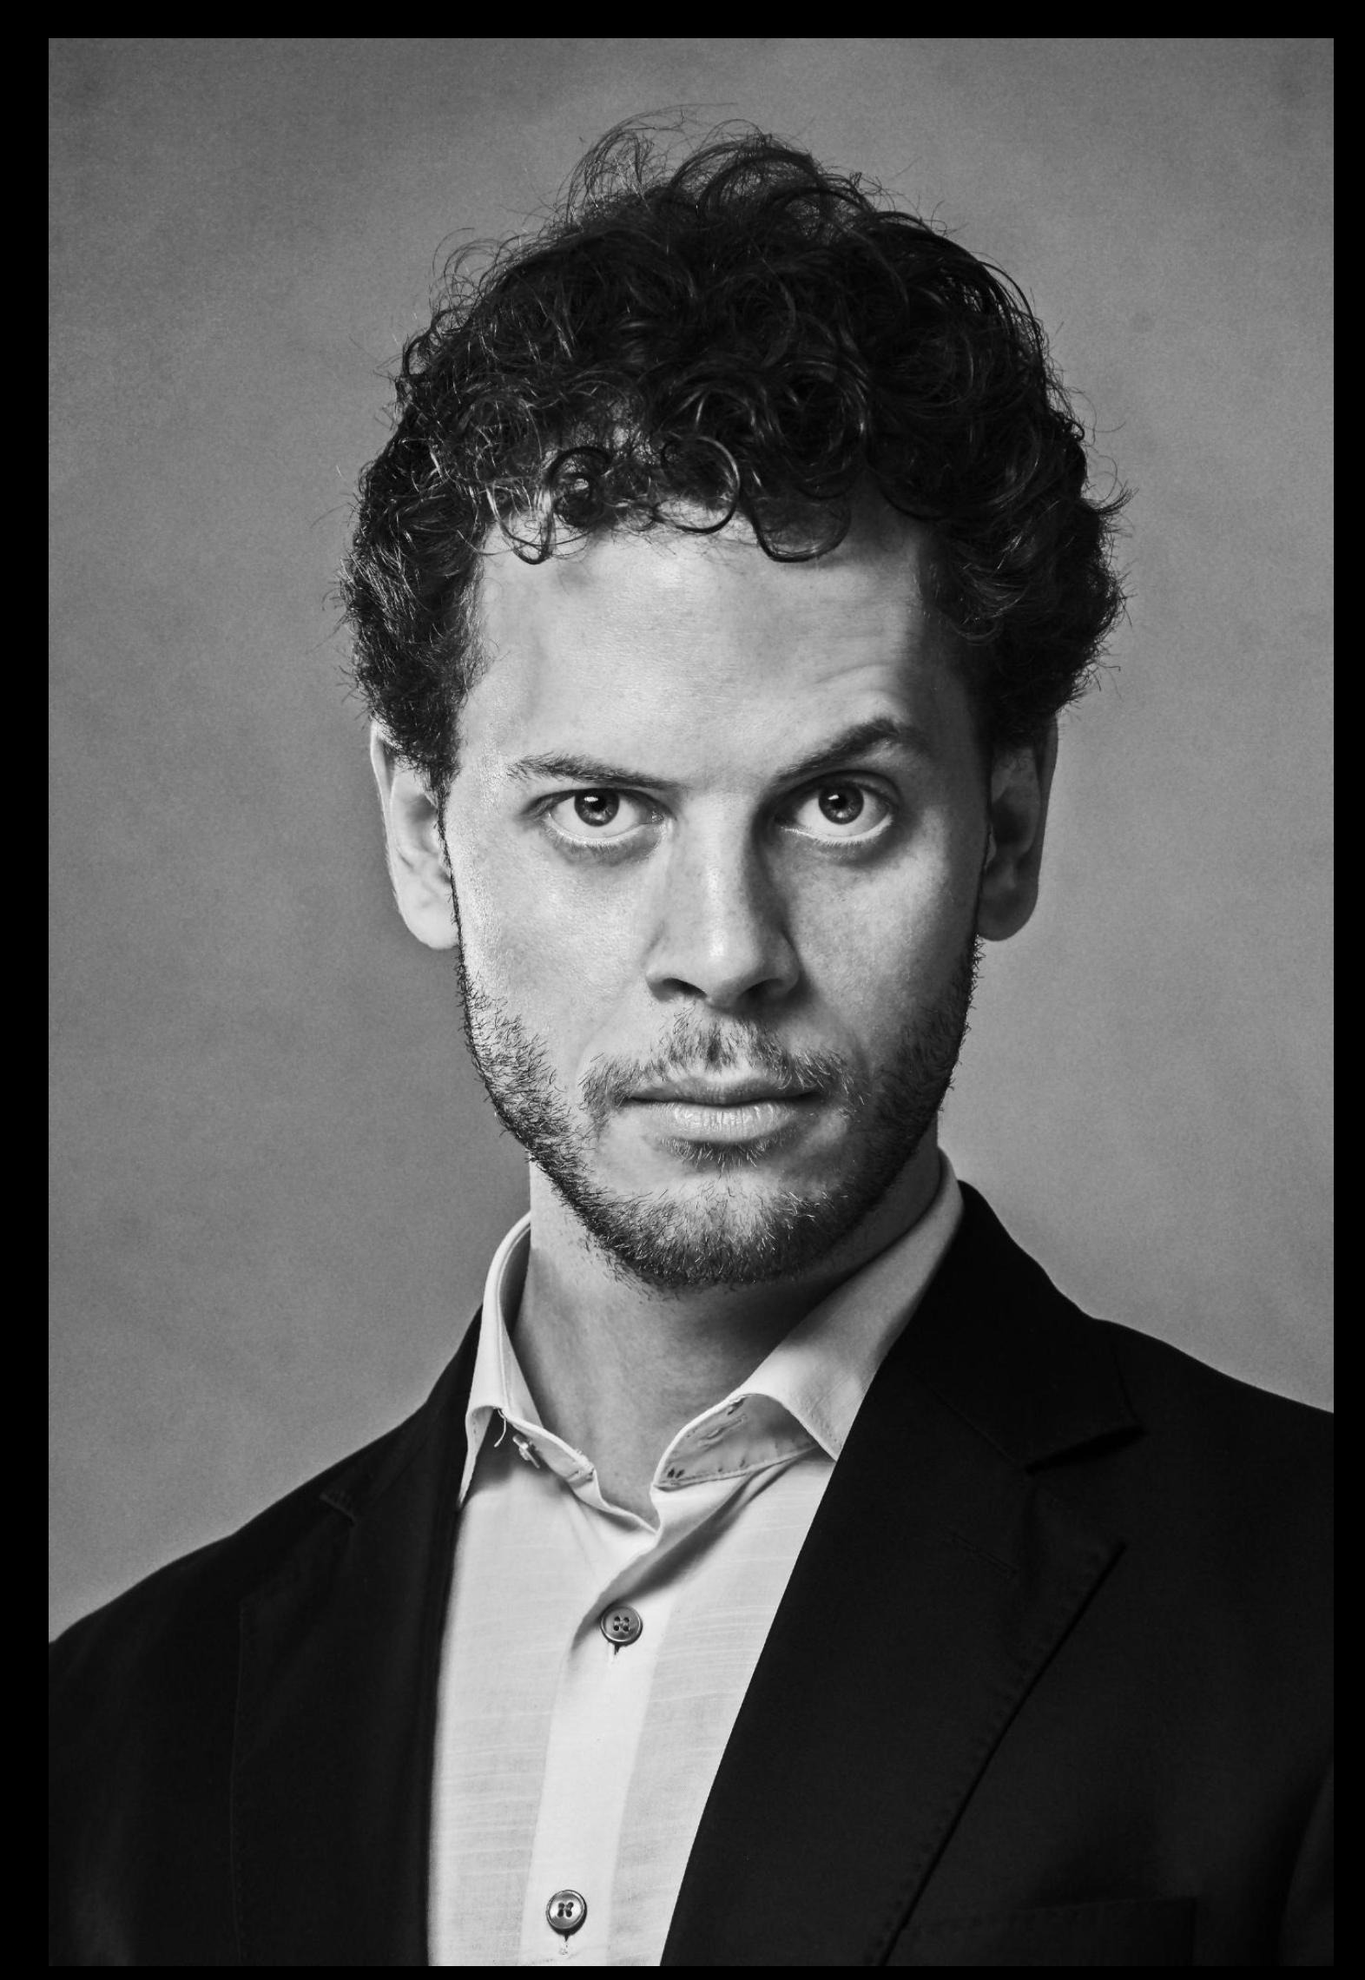
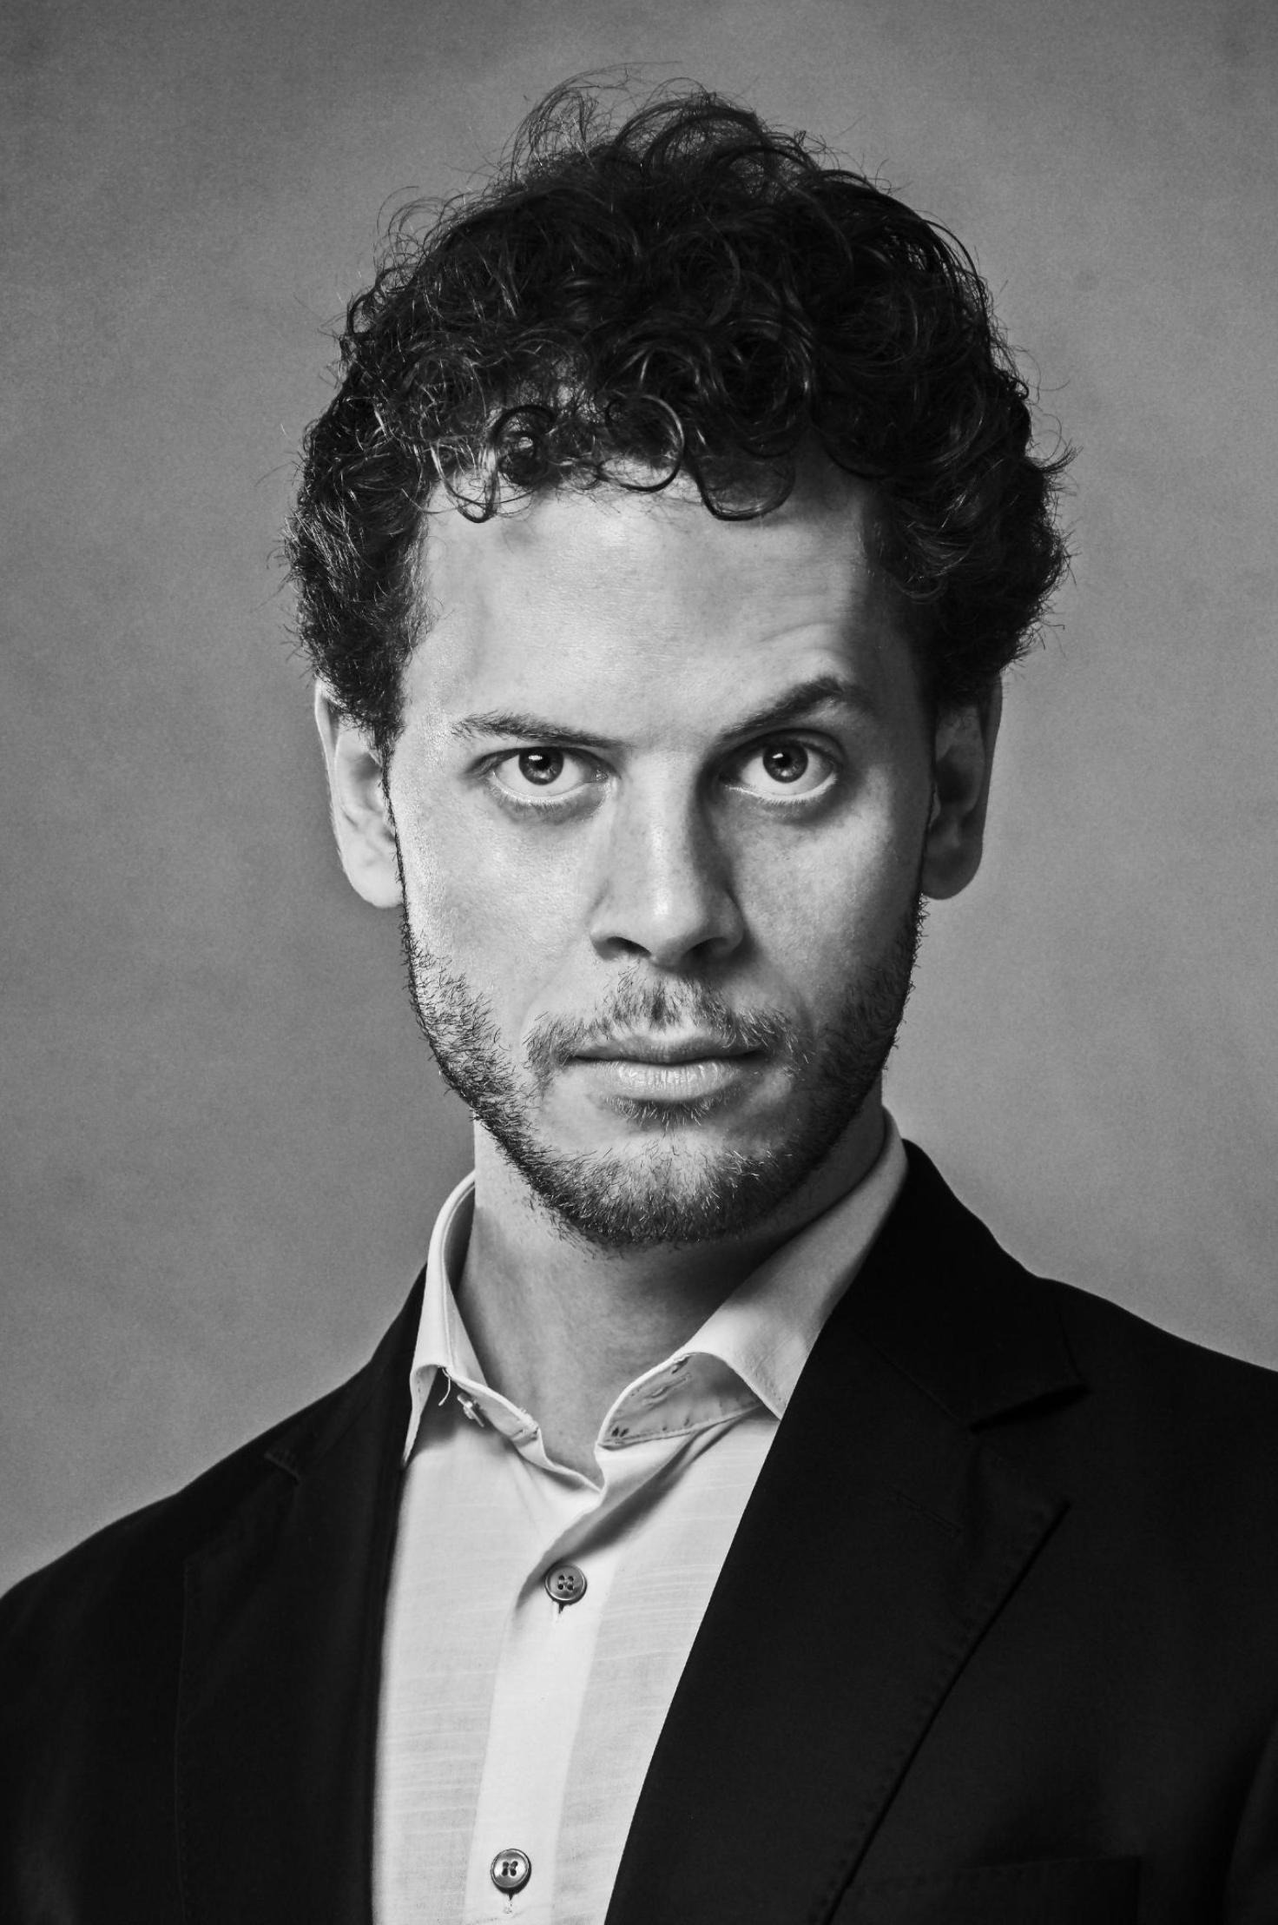
Team page: publish the current roster from momentum-public-site develop a77b971

diff --git a/team.html b/team.html
@@ -10,13 +10,13 @@
     <link rel="apple-touch-icon" href="/apple-touch-icon.svg">
 
     <!-- SEO -->
-    <meta name="description" content="The team building the AI-native operating system for organizations, live across 13+ jurisdictions. Stripe founding team. MIT. Perimeter Institute. Oracle. Stability AI. Operating from Abu Dhabi, Miami, Shanghai, and Cape Town.">
+    <meta name="description" content="The team building the AI-native operating system for organizations, with deployments in the United States, Honduras, Hong Kong, Singapore, and ADGM. Stripe founding team. MIT. Perimeter Institute. Stability AI. Operating from Abu Dhabi, Miami, Shanghai, and Cape Town.">
     <meta name="author" content="Momentum">
     <link rel="canonical" href="https://momentum.inc/team.html">
 
     <!-- Open Graph -->
     <meta property="og:title" content="Team — Momentum">
-    <meta property="og:description" content="The team building the AI-native operating system for organizations, live across 13+ jurisdictions. Stripe founding team. MIT. Perimeter Institute. Operating across four continents.">
+    <meta property="og:description" content="The team building the AI-native operating system for organizations, with deployments in the United States, Honduras, Hong Kong, Singapore, and ADGM. Stripe founding team. MIT. Perimeter Institute. Operating across four continents.">
     <meta property="og:type" content="website">
     <meta property="og:url" content="https://momentum.inc/team.html">
     <meta property="og:image" content="https://momentum.inc/og-image.png">
@@ -24,7 +24,7 @@
     <!-- Twitter -->
     <meta name="twitter:card" content="summary_large_image">
     <meta name="twitter:title" content="Team — Momentum">
-    <meta name="twitter:description" content="The team building the AI-native operating system for organizations, live across 13+ jurisdictions. Stripe founding team. MIT. Perimeter Institute.">
+    <meta name="twitter:description" content="The team building the AI-native operating system for organizations, with deployments in the United States, Honduras, Hong Kong, Singapore, and ADGM. Stripe founding team. MIT. Perimeter Institute.">
     <meta name="twitter:image" content="https://momentum.inc/og-image.png">
 
     <!-- Google Analytics -->
@@ -120,31 +120,88 @@
                         <div class="team-card">
                             <div class="team-portrait" data-initials="RL"><img src="/team/raeez-lorgat.jpeg" alt="Raeez Lorgat" width="896" height="1088" loading="lazy"></div>
                             <h2 class="team-card-name">Raeez Lorgat</h2>
-                            <p class="team-card-role">Founder &amp; Managing Partner</p>
-                            <p class="team-card-bio">Programming since eleven. NASA grand award at sixteen; <a href="https://www.spacereference.org/asteroid/23122-lorgat-2000-au52">Minor Planet 23122 Lorgat</a> named in his honour. MIT, then joined Patrick and John Collison on the founding team at Stripe. A decade at MIT and the Perimeter Institute studying arithmetic geometry, factorization algebras, and the geometry of quantum field theory.</p>
+                            <p class="team-card-role">Chief Executive Officer, Managing Partner, Founder</p>
+                            <p class="team-card-bio">Allocates capital, sets network strategy, leads government relationships, and approves investment and operating decisions. He dropped out of the Massachusetts Institute of Technology (MIT) in 2010 and co-founded Stripe. He returned to pure mathematics in 2013 and taught at MIT and the Perimeter Institute for Theoretical Physics, where he is a Research Fellow. That work became Mass.</p>
                         </div>
 
-                        <!-- <div class="team-card">
-                            <div class="team-portrait" data-initials="BA"><img src="/team/bharathwaj-anand.jpg" alt="Bharathwaj Anand" width="906" height="906" loading="lazy"></div>
-                            <h2 class="team-card-name">Bharathwaj Anand</h2>
-                            <p class="team-card-role">Institutional &amp; Frontier Markets</p>
-                            <p class="team-card-geo">India &middot; Middle East &middot; North America</p>
-                            <p class="team-card-bio">Founded Oracle&rsquo;s Shared Services Technology practice. Built global banking infrastructure for BNY Mellon and State Street. As VP of Commercialization, secured $50M+ ARR across Canadian provincial and federal government mandates. Leads strategic expansion into the Indian subcontinent and the Broad Group manufacturing joint venture in Abu Dhabi.</p>
-                        </div> -->
+                        <div class="team-card">
+                            <div class="team-portrait" data-initials="TL"><img src="/team/tariq-lorgat.jpg" alt="Tariq Lorgat" width="640" height="640" loading="lazy"></div>
+                            <h2 class="team-card-name">Tariq Lorgat</h2>
+                            <p class="team-card-role">Chief Technology Officer, Partner, Founder</p>
+                            <p class="team-card-bio">Leads Mass technology, information security, integration, and technical acceptance. He is Raeez Lorgat&rsquo;s brother and has built the company with him from the start.</p>
+                        </div>
 
                         <div class="team-card">
-                            <div class="team-portrait" data-initials="ST"><img src="/team/scott-trowbridge-highres.jpg" alt="Scott Trowbridge" width="626" height="644" loading="lazy"></div>
-                            <h2 class="team-card-name">Scott Trowbridge</h2>
-                            <p class="team-card-role">Incubation &amp; Community Building</p>
-                            <p class="team-card-geo">UAE</p>
-                            <p class="team-card-bio">Founding team and first investor at Stability AI ($240M+ raised, $1B valuation). Led Circle EMEA, launching regulated digital dollar and euro rails across the region. Built WeWork&rsquo;s Fintech and Digital Assets Incubator.</p>
+                            <div class="team-portrait" data-initials="TC"><img src="/team/taalia-crawley.jpg" alt="Taalia Crawley" width="640" height="640" loading="lazy"></div>
+                            <h2 class="team-card-name">Taalia Crawley</h2>
+                            <p class="team-card-role">Chief Compliance Officer</p>
+                            <p class="team-card-bio">Leads group compliance, including onboarding, monitoring, reporting, and regulator engagement. She is a chartered accountant, certified by the South African Institute of Chartered Accountants. She is the group&rsquo;s Money Laundering Reporting Officer.</p>
+                        </div>
+
+                        <div class="team-card">
+                            <div class="team-portrait" data-initials="JB"><img src="/team/jan-bunge.png" alt="Jan Bunge" width="1440" height="1440" loading="lazy"></div>
+                            <h2 class="team-card-name">Jan Bunge</h2>
+                            <p class="team-card-role">Chief Architect, Planning &amp; Logistics Officer</p>
+                            <p class="team-card-bio">Leads architecture, physical planning, and logistics for zones, cities, and infrastructure. He has two decades in architecture and urban design, including as a partner at Squint/Opera, where he developed Spaceform. He trained at TU Berlin and IAAC Barcelona.</p>
+                        </div>
+
+                        <div class="team-card">
+                            <div class="team-portrait" data-initials="SS"><img src="/team/sunghoon-suh.png" alt="Sunghoon Suh" width="1440" height="1440" loading="lazy"></div>
+                            <h2 class="team-card-name">Sunghoon Suh</h2>
+                            <p class="team-card-role">Operating Partner</p>
+                            <p class="team-card-bio">Leads business development and cross-border programmes across Korea, Japan, and Indonesia. He holds a master&rsquo;s in information management from the Korea Advanced Institute of Science and Technology, built mobile-banking cybersecurity joint ventures across three countries, and worked on the Jakarta mass rapid transit signalling programme.</p>
+                        </div>
+
+                        <div class="team-card">
+                            <div class="team-portrait" data-initials="MS"></div>
+                            <h2 class="team-card-name">Michael Sung</h2>
+                            <p class="team-card-role">Operating Partner</p>
+                            <p class="team-card-bio">Develops institutional, trade, zone, and licensed-service relationships across China, the United Arab Emirates, Pakistan, Hong Kong, and the Seychelles. He is a founding co-director of the Fudan Fanhai Fintech Research Center, a principal of CarbonBlue Innovations in Hong Kong, and a member of the World Digital Economy Council&rsquo;s central bank digital currency committee.</p>
+                        </div>
+
+                        <div class="team-card">
+                            <div class="team-portrait" data-initials="LW"><img src="/team/lilith-wang.jpeg" alt="Lilith Wang" width="1200" height="1600" loading="lazy"></div>
+                            <h2 class="team-card-name">Lilith Wang</h2>
+                            <p class="team-card-role">Operating Partner</p>
+                            <p class="team-card-geo">Kazakhstan &middot; China &middot; UAE</p>
+                            <p class="team-card-bio">Established federally supported incubators with the University of Toronto. Led Momentum&rsquo;s Kazakhstan economic zone initiative. Now leading the Broad Group joint venture for prefabricated manufacturing in Abu Dhabi and facilitating North American market entry into the UAE.</p>
+                        </div>
+
+                        
+
+                        <div class="team-card">
+                            <div class="team-portrait" data-initials="HM"></div>
+                            <h2 class="team-card-name">Hugo Mathecowitsch</h2>
+                            <p class="team-card-role">Operating Partner</p>
+                            <p class="team-card-bio">Leads zone origination across Africa and Latin America. He is the founder and chief executive of Tools for the Commons, Momentum&rsquo;s Africa and Latin America zone partner, which establishes companies in digital economic zones.</p>
+                        </div>
+
+                        <div class="team-card">
+                            <div class="team-portrait" data-initials="HS"></div>
+                            <h2 class="team-card-name">Haroun Bilal Sharif</h2>
+                            <p class="team-card-role">Operating Partner</p>
+                            <p class="team-card-bio">Leads Momentum&rsquo;s Pakistan programme. He is a Pakistani lawyer with international-arbitration and frontier-market experience.</p>
+                        </div>
+
+                        <div class="team-card">
+                            <div class="team-portrait" data-initials="CS"></div>
+                            <h2 class="team-card-name">Charles Slamowitz</h2>
+                            <p class="team-card-role">Operating Partner, Law</p>
+                            <p class="team-card-bio">He is the founder and managing partner of Slam Legal in New York, a firm for artificial intelligence, digital assets, and cross-border technology disputes. He trained at Emory University School of Law.</p>
+                        </div>
+
+                        <div class="team-card">
+                            <div class="team-portrait" data-initials="FJ"></div>
+                            <h2 class="team-card-name">Fahad Juneja</h2>
+                            <p class="team-card-role">Operating Partner, Law</p>
+                            <p class="team-card-bio">He practiced at Sidley Austin in Dallas and Century City, and was in-house counsel at Paramount Pictures. He trained at Southern Methodist University (Order of the Coif) and George Washington University.</p>
                         </div>
 
                         <div class="team-card">
                             <div class="team-portrait" data-initials="JJ"><img src="/team/jogabrata-jena.png" alt="Jogabrata Jena" width="1456" height="1440" loading="lazy"></div>
                             <h2 class="team-card-name">Jogabrata Jena</h2>
-                            <p class="team-card-role">Product &amp; Brand Design</p>
-                            <p class="team-card-bio">Product and brand designer building cohesive, scalable digital experiences across fintech and emerging technology. Visual identity and UX for Mass and Momentum. Design systems for Zee, Unmarshal, Tayze, Slice Bank.</p>
+                            <p class="team-card-role">Product and Brand Designer</p>
+                            <p class="team-card-bio">Builds product experience, brand systems, and visual design for Momentum and Mass. He previously built the design systems for Zee, Unmarshal, Tayze, and Slice Bank.</p>
                             <div class="team-icon-row">
                                 <a href="https://www.linkedin.com/in/jogabrata-jena-122227189/" aria-label="Jogabrata Jena on LinkedIn" class="team-icon-link"><svg width="14" height="14" viewBox="0 0 14 14" fill="currentColor"><rect x="1" y="1" width="2.5" height="2.5"/><rect x="1" y="5.5" width="2.5" height="7.5"/><rect x="5.5" y="5.5" width="2.5" height="7.5"/><rect x="5.5" y="5.5" width="7" height="2"/><rect x="10" y="7.5" width="2.5" height="5.5"/></svg></a>
                             </div>
@@ -153,15 +210,45 @@
                         <div class="team-card">
                             <div class="team-portrait" data-initials="DC"><img src="/team/david-cash.jpg" alt="David Cash" width="1576" height="2048" loading="lazy"></div>
                             <h2 class="team-card-name">David Cash</h2>
-                            <p class="team-card-role">Marketing &amp; Communications</p>
-                            <p class="team-card-bio">Founded Cash Labs (300+ campaigns: Amazon, Est&eacute;e Lauder, Verizon, NBA). $100M+ in digital asset sales. Profiled by Vogue for digital commerce market work.</p>
+                            <p class="team-card-role">Communications</p>
+                            <p class="team-card-bio">Leads messaging, media relationships, market positioning, and communications production. He founded Cash Labs, which has run more than three hundred campaigns for companies including Amazon, Est&eacute;e Lauder, Verizon, and the NBA. He has curated Metaverse Fashion Week since its first edition.</p>
                         </div>
 
                         <div class="team-card">
-                            <div class="team-portrait" data-initials="JB"><img src="/team/jan-bunge.png" alt="Jan Bunge" width="1440" height="1440" loading="lazy"></div>
-                            <h2 class="team-card-name">Jan Bunge</h2>
-                            <p class="team-card-role">Architect</p>
-                            <p class="team-card-bio">Two decades in architecture and urban design. Partner at Squint/Opera; developed Spaceform. TU Berlin, IAAC Barcelona.</p>
+                            <div class="team-portrait" data-initials="AN"></div>
+                            <h2 class="team-card-name">Ali Al Nuaimi</h2>
+                            <p class="team-card-role">Advisor, Sovereign and Institutional</p>
+                            <p class="team-card-bio">Advises on government, energy, banking, and applied-artificial-intelligence programmes in the United Arab Emirates. He is a nuclear scientist and applied-artificial-intelligence engineer there.</p>
+                        </div>
+
+                        <div class="team-card">
+                            <div class="team-portrait" data-initials="OG"></div>
+                            <h2 class="team-card-name">Omar Essa Al Ghurair</h2>
+                            <p class="team-card-role">Advisor, Institutional and Energy</p>
+                            <p class="team-card-bio">Advises on institutional and energy relationships.</p>
+                        </div>
+
+                        <div class="team-card">
+                            <div class="team-portrait" data-initials="ST"><img src="/team/scott-trowbridge-highres.jpg" alt="Scott Trowbridge" width="626" height="644" loading="lazy"></div>
+                            <h2 class="team-card-name">Scott Trowbridge</h2>
+                            <p class="team-card-role">Advisor, Venture and Digital Currency</p>
+                            <p class="team-card-geo">UAE</p>
+                            <p class="team-card-bio">Advises on venture incubation, founder communities, and United Arab Emirates relationships. He was a founding team member, the first investor, and a board member at Stability AI, and led Circle&rsquo;s Europe, Middle East and Africa business through the launch of the USDC and EURC stablecoins. He built WeWork&rsquo;s fintech and blockchain incubator and founded Symbiotic Labs.</p>
+                        </div>
+
+                        <div class="team-card">
+                            <div class="team-portrait" data-initials="MC"></div>
+                            <h2 class="team-card-name">Michael Chan</h2>
+                            <p class="team-card-role">Advisor, South East Asia</p>
+                            <p class="team-card-bio">Advises Momentum on South East Asia.</p>
+                        </div>
+
+                        <div class="team-card">
+                            <div class="team-portrait" data-initials="MV"><img src="/team/miklos-veszpremi.jpg" alt="Miklós Veszprémi, PhD" width="1472" height="2216" loading="lazy"></div>
+                            <h2 class="team-card-name">Miklós Veszprémi, PhD</h2>
+                            <p class="team-card-role">Advisor &amp; Operator, Private Markets</p>
+                            <p class="team-card-geo">UAE &middot; Europe</p>
+                            <p class="team-card-bio">BCG Expert Consultant advising sovereign wealth funds, including a $1T fund. EY-Parthenon transaction strategy. WEF Fellow. PhD Yale, MBA St. Gallen, concert pianist. Seven languages, four nationalities.</p>
                         </div>
 
                     </div>
